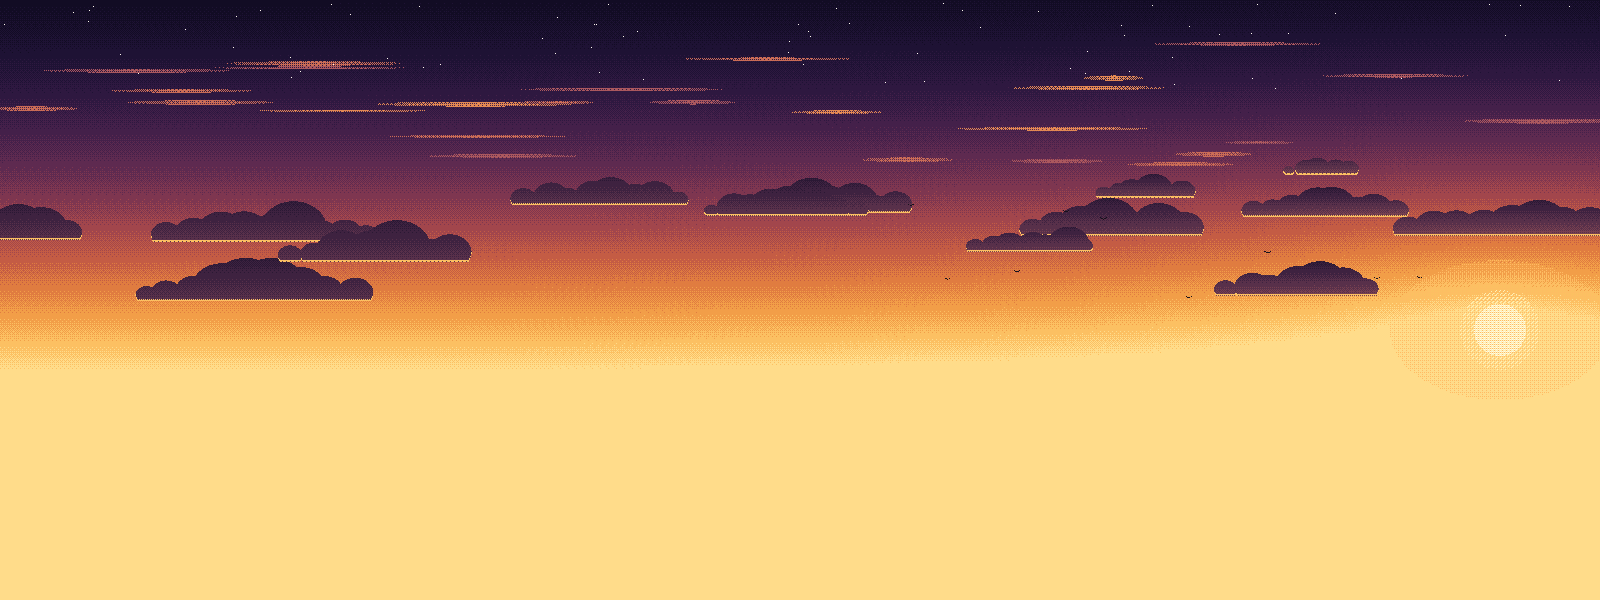
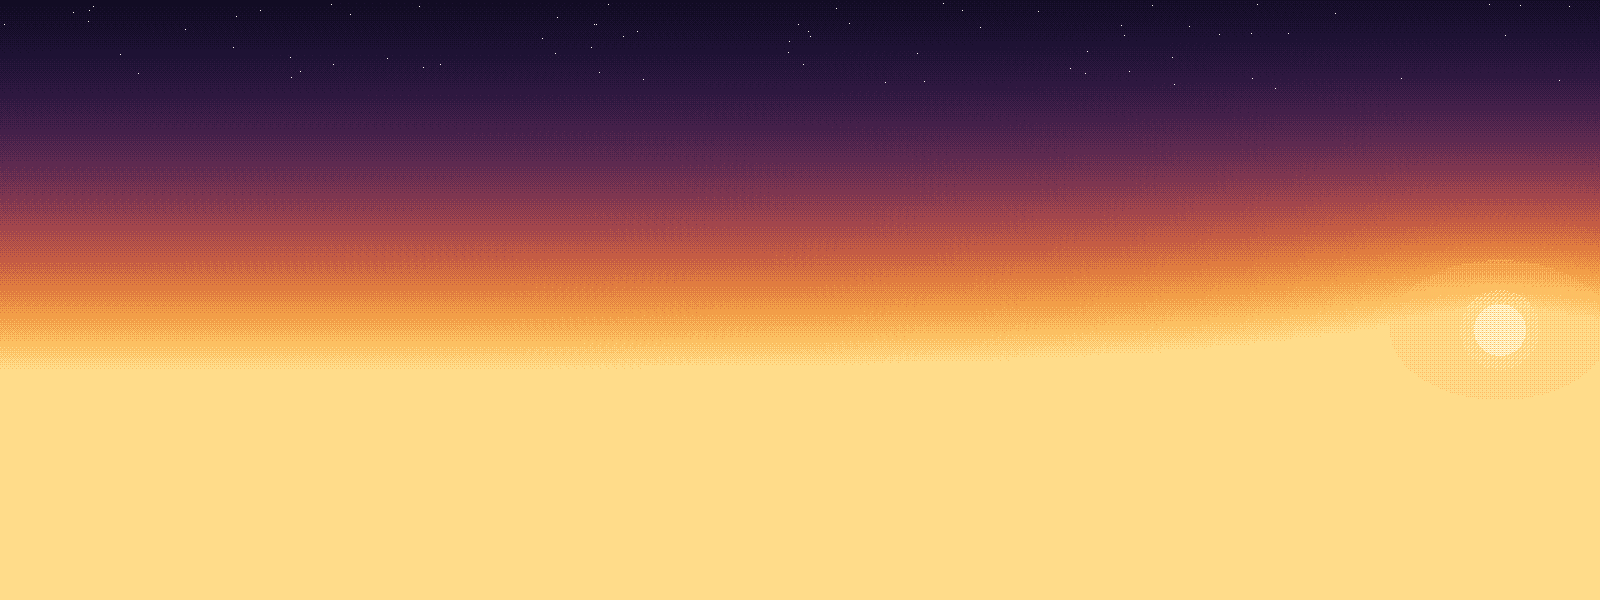
Groundbreak: drifting clouds, twinkling bay glints, sailing boats

diff --git a/components/groundbreak-art/site-scene.tsx b/components/groundbreak-art/site-scene.tsx
@@ -22,7 +22,7 @@ const K = 2;
 /** The job stands with its centre at world x 240 on the near shore; the backdrop's site line meets world ground. */
 const OY = GB_BACKDROP.siteY - GROUND_Y * K;
 const SITE_X = 980; // backdrop x (art px) under the job's centre: right of the port cranes, the city behind it
-const PARALLAX = { sky: 0.06, hills: 0.22, city: 0.42, bay: 0.62, shore: 1 } as const;
+const PARALLAX = { sky: 0.06, clouds: 0.1, hills: 0.22, city: 0.42, bay: 0.62, glint: 0.62, boats: 0.62, shore: 1 } as const;
 
 function frameFor(id: GbJobId, job: SceneJob): number {
     const n = GB_JOBS[id].frames.length;
@@ -50,7 +50,7 @@ export function GbSiteScene({ camera, job, skyline, reduce, paused, idle, crews 
     const B = GB_BACKDROP;
     const city = Math.min(4, Math.floor(skyline.length / 3)) as 0 | 1 | 2 | 3 | 4;
 
-    const layer = (name: keyof typeof PARALLAX, src: string) => {
+    const layer = (name: keyof typeof PARALLAX, src: string, motion?: string) => {
         const p = PARALLAX[name];
         const sc = fit * (1 + (camera.z - 1) * p);
         const cx = SITE_X + (fx - SITE_X) * p;
@@ -60,7 +60,7 @@ export function GbSiteScene({ camera, job, skyline, reduce, paused, idle, crews 
         const ty = horizonScreen - B.horizon * sc;
         // three copies side by side so zooming far out never shows an edge
         return (
-            <div key={name} className="gba-layer" style={{
+            <div key={name} className={`gba-layer ${motion ?? ""}`} style={{
                 width: B.w * 3, height: B.h, transform: `translate(${Math.round(tx - B.w * sc)}px, ${Math.round(ty)}px) scale(${sc})`,
                 backgroundImage: `url("${src}")`, backgroundSize: `${B.w}px ${B.h}px`, backgroundRepeat: "repeat-x",
             }} />
@@ -86,9 +86,12 @@ export function GbSiteScene({ camera, job, skyline, reduce, paused, idle, crews 
     return (
         <div ref={box} className={`gba-scene ${reduce ? "gba-lowfx" : ""} ${paused ? "gba-paused" : ""}`} aria-hidden="true">
             {layer("sky", B.layers.sky)}
+            {layer("clouds", B.layers.clouds, "gba-drift")}
             {layer("hills", B.layers.hills)}
             {layer("city", B.layers[`city-${city}`])}
             {layer("bay", B.layers.bay)}
+            {layer("glint", B.layers.glint, "gba-twinkle")}
+            {layer("boats", B.layers.boats, "gba-sail")}
             {layer("shore", B.layers.shore)}
             <div className="gba-near" style={{ transform: near }}>
                 <div className="gba-under" style={{ left: -4000, top: B.h - 2, width: B.w + 8000, height: 3000 }} />

diff --git a/components/groundbreak-art/art.css b/components/groundbreak-art/art.css
@@ -41,3 +41,22 @@
 .gbl-tag::after { right: -3px; bottom: -3px; border-left: 0; border-top: 0; }
 @keyframes gbl-tag-in { from { opacity: 0; translate: 0 4px; } to { opacity: 1; translate: 0 0; } }
 @media (prefers-reduced-motion: reduce) { .gbl-tag { animation: none; } }
+/* Workers pace the site; each is one pixel-art figure drawn with a box-shadow (components/groundbreak-art/site-scene.tsx). */
+.gba-worker { position: absolute; width: 6px; height: 12px; image-rendering: pixelated; pointer-events: none; transform: scale(2); transform-origin: 0 100%;
+  animation: gba-pace var(--dur, 7s) steps(24, end) var(--delay, 0s) infinite alternate; }
+.gba-worker i { display: block; width: 1px; height: 1px; animation: gba-bob .5s steps(2, end) infinite; }
+@keyframes gba-pace { from { translate: 0 0; } to { translate: calc(var(--span, 60px) / 2) 0; } }
+@keyframes gba-bob { 50% { translate: 0 -1px; } }
+.gba-paused .gba-worker, .gba-paused .gba-worker i { animation-play-state: paused; }
+.gba-lowfx .gba-worker, .gba-lowfx .gba-worker i { animation: none; }
+@media (prefers-reduced-motion: reduce) { .gba-worker, .gba-worker i { animation: none; } }
+
+/* Ambient backdrop motion: clouds drift, glints sparkle on the bay, boats cross. Stepped so the pixels stay crisp. */
+.gba-drift { animation: gba-drift 600s steps(1600, end) infinite; }
+@keyframes gba-drift { to { background-position-x: 1600px; } }
+.gba-sail { animation: gba-drift 420s steps(1600, end) infinite reverse; }
+.gba-twinkle { animation: gba-twinkle 2.4s steps(1, end) infinite; }
+@keyframes gba-twinkle { 0% { opacity: 1; } 33% { opacity: .45; } 66% { opacity: .8; } }
+.gba-paused .gba-drift, .gba-paused .gba-sail, .gba-paused .gba-twinkle { animation-play-state: paused; }
+.gba-lowfx .gba-drift, .gba-lowfx .gba-sail, .gba-lowfx .gba-twinkle { animation: none; }
+@media (prefers-reduced-motion: reduce) { .gba-drift, .gba-sail, .gba-twinkle { animation: none; } }

diff --git a/components/groundbreak-art/scene-data.ts b/components/groundbreak-art/scene-data.ts
@@ -1,8 +1,11 @@
 // Generated by scripts/groundbreak-art/build-scene.py. Do not edit by hand.
 export const GB_BACKDROP = { w: 1600, h: 600, horizon: 372, siteY: 492, layers: {
-  "sky": "/groundbreak/backdrop/sky.webp?v=ee3b7d32",
+  "sky": "/groundbreak/backdrop/sky.webp?v=79a1308b",
+  "clouds": "/groundbreak/backdrop/clouds.webp?v=b3b5f8c0",
   "hills": "/groundbreak/backdrop/hills.webp?v=a32b84f4",
-  "bay": "/groundbreak/backdrop/bay.webp?v=0195a61d",
+  "bay": "/groundbreak/backdrop/bay.webp?v=635a1383",
+  "glint": "/groundbreak/backdrop/glint.webp?v=21bd9f7d",
+  "boats": "/groundbreak/backdrop/boats.webp?v=b61c68a0",
   "shore": "/groundbreak/backdrop/shore.webp?v=fc279f7e",
   "city-0": "/groundbreak/backdrop/city-0.webp?v=1c4c1c27",
   "city-1": "/groundbreak/backdrop/city-1.webp?v=b1039863",

diff --git a/scripts/groundbreak-art/gb_backdrop.py b/scripts/groundbreak-art/gb_backdrop.py
@@ -32,6 +32,8 @@ def sky():
     c.fill(c.disc(*SUN, 26), 0.9, "lamp", 0.4)
     c.thin(c.disc(*SUN, 40) & ~c.disc(*SUN, 26), P["lamp"][5], 0.35)
     c.thin(c.disc(*SUN, 110, 70), P["lamp"][3], 0.18, 200)  # wide halo
+    base = c
+    c = Canvas(W, H)  # clouds and birds go on their own layer so they can drift
     r = rng(3)
     # high cirrus: short tapered wisps, lit pink-gold from below
     for _ in range(26):
@@ -57,11 +59,11 @@ def sky():
     for _ in range(9):
         x, y = r.uniform(900, 1450), r.uniform(200, 300)
         c.set(c.line(x - 3, y - 1.5, x, y, 0.8) | c.line(x, y, x + 3, y - 1.5, 0.8), P["ink"][1])
+    cl, c = c, base
     for _ in range(70):  # first stars in the dark top
         x, y = r.uniform(0, W), r.uniform(0, 90)
         c.set(c.rect(x, y, x + 1, y + 1), P["white"][3], 180)
-    return c
-
+    return c, cl
 
 def ridge(c, base, amp, seed, pal, lo, hi, x_from=0, x_to=W, peak=None):
     r = rng(seed)
@@ -133,12 +135,16 @@ def bay():
     # sun glitter column
     g = m & (np.abs(c.X - SUN[0]) < 40 + 140 * d) & (np.sin(c.Y * 2.3 + np.sin(c.X * 0.09) * 3) > 0.6) & \
         (c.B < 0.25 - 0.6 * np.abs(c.X - SUN[0]) / (40 + 140 * d))
-    c.set(g, P["lamp"][5])
+    c.set(g & (c.B < -0.3), P["lamp"][5])
+    glit = g
     rows = m & (np.sin(c.Y * 1.7 + np.sin(c.X * 0.05) * 2) > 0.92 - 0.1 * d)  # wave crests
     c.set(rows & (c.B < 0.1), P["water"][5])
     refl = m & (c.Y < HORIZON + 60) & (c.X > 640) & (c.X < 1460) & (np.sin(c.X * 0.37 + np.sin(c.Y * 1.9) * 2.5) > 0.75) & \
         (c.B < 0.05 - (c.Y - HORIZON) / 70) & (np.sin(c.Y * 2.2) > 0.1)
-    c.set(refl, P["lamp"][3], 200)  # city lights trembling on the water
+    gl = Canvas(W, H)
+    gl.set(glit & (gl.B >= -0.3), P["lamp"][5])
+    gl.set(refl, P["lamp"][3], 200)  # city lights trembling on the water
+    bay_c, c = c, Canvas(W, H)
     r = rng(5)
     for k in range(5):  # sailboats
         x, y = r.uniform(420, 1400), HORIZON + r.uniform(8, 50)
@@ -151,6 +157,7 @@ def bay():
     c.fill(c.rect(fx + 6, fy - 5, fx + 38, fy), 0.55, "white", 0.4)
     c.set(c.rect(fx + 8, fy - 4, fx + 36, fy - 2) & ((c.X % 3) < 2), P["lamp"][4])
     c.thin(c.rect(fx + 46, fy + 3, fx + 160, fy + 6) & (c.Y < fy + 4 + (c.X - fx - 46) / 40), P["white"][2], 0.35)
+    boats, c = c, bay_c
     for k in range(6):  # small boats and a container ship
         x, y = r.uniform(600, 1500), HORIZON + r.uniform(6, 40)
         c.set(c.rect(x, y, x + 8, y + 2), P["white"][2])
@@ -161,8 +168,7 @@ def bay():
         c.fill(c.rect(x + 12 + k * 9, y - 5 - (k % 3) * 2, x + 20 + k * 9, y), 0.5,
                ["safety", "glass", "hiviz", "cash"][k % 4], 0.6)
     c.fill(c.rect(x + 96, y - 14, x + 104, y), 0.5, "white", 0.5)
-    return c
-
+    return c, boats, gl
 
 def city(level):
     """Skyline on the city hills across the water. level 0..4 adds towers; seeds are stable so a higher level keeps
@@ -293,7 +299,9 @@ def shore():
 
 
 def all_layers():
-    out = {"sky": sky(), "hills": hills(), "bay": bay(), "shore": shore()}
+    sk, clouds = sky()
+    b, boats, glint = bay()
+    out = {"sky": sk, "clouds": clouds, "hills": hills(), "bay": b, "glint": glint, "boats": boats, "shore": shore()}
     for lvl in range(5):
         out[f"city-{lvl}"] = city(lvl)
     return out
